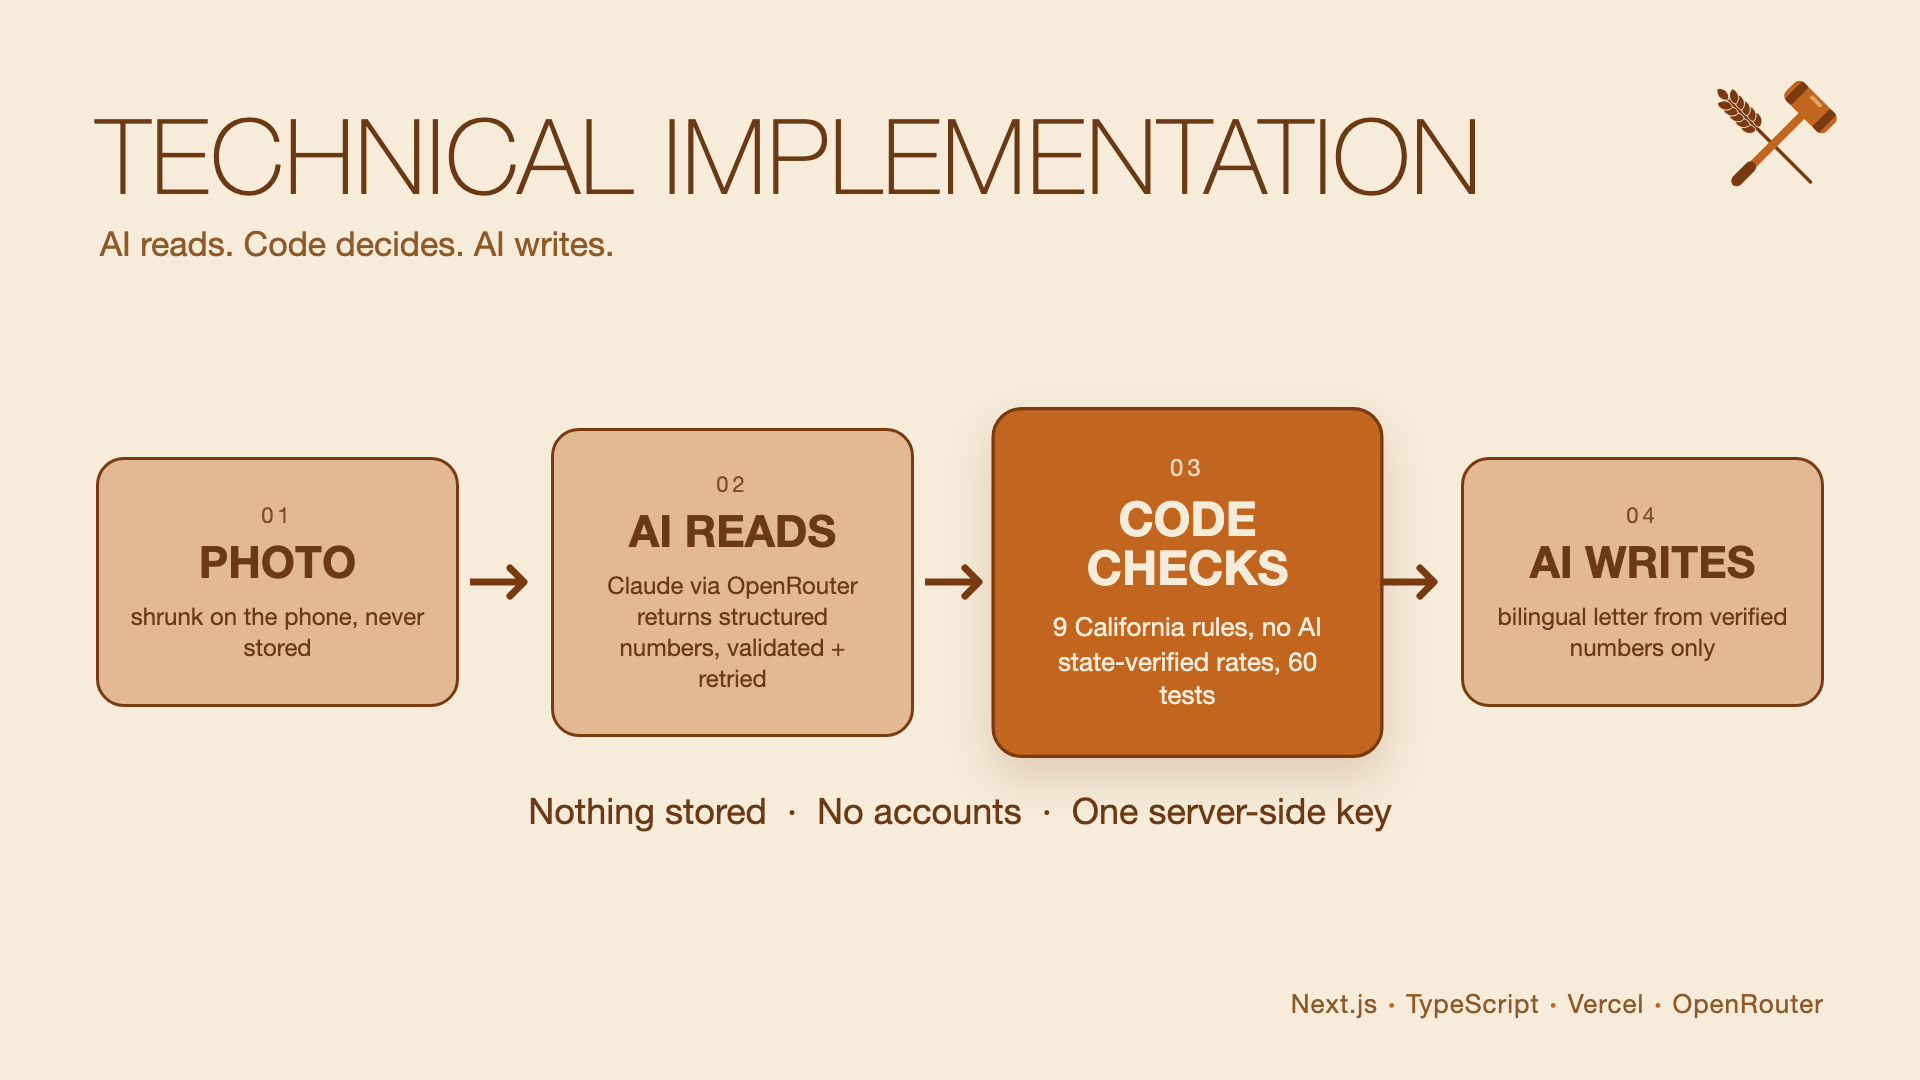
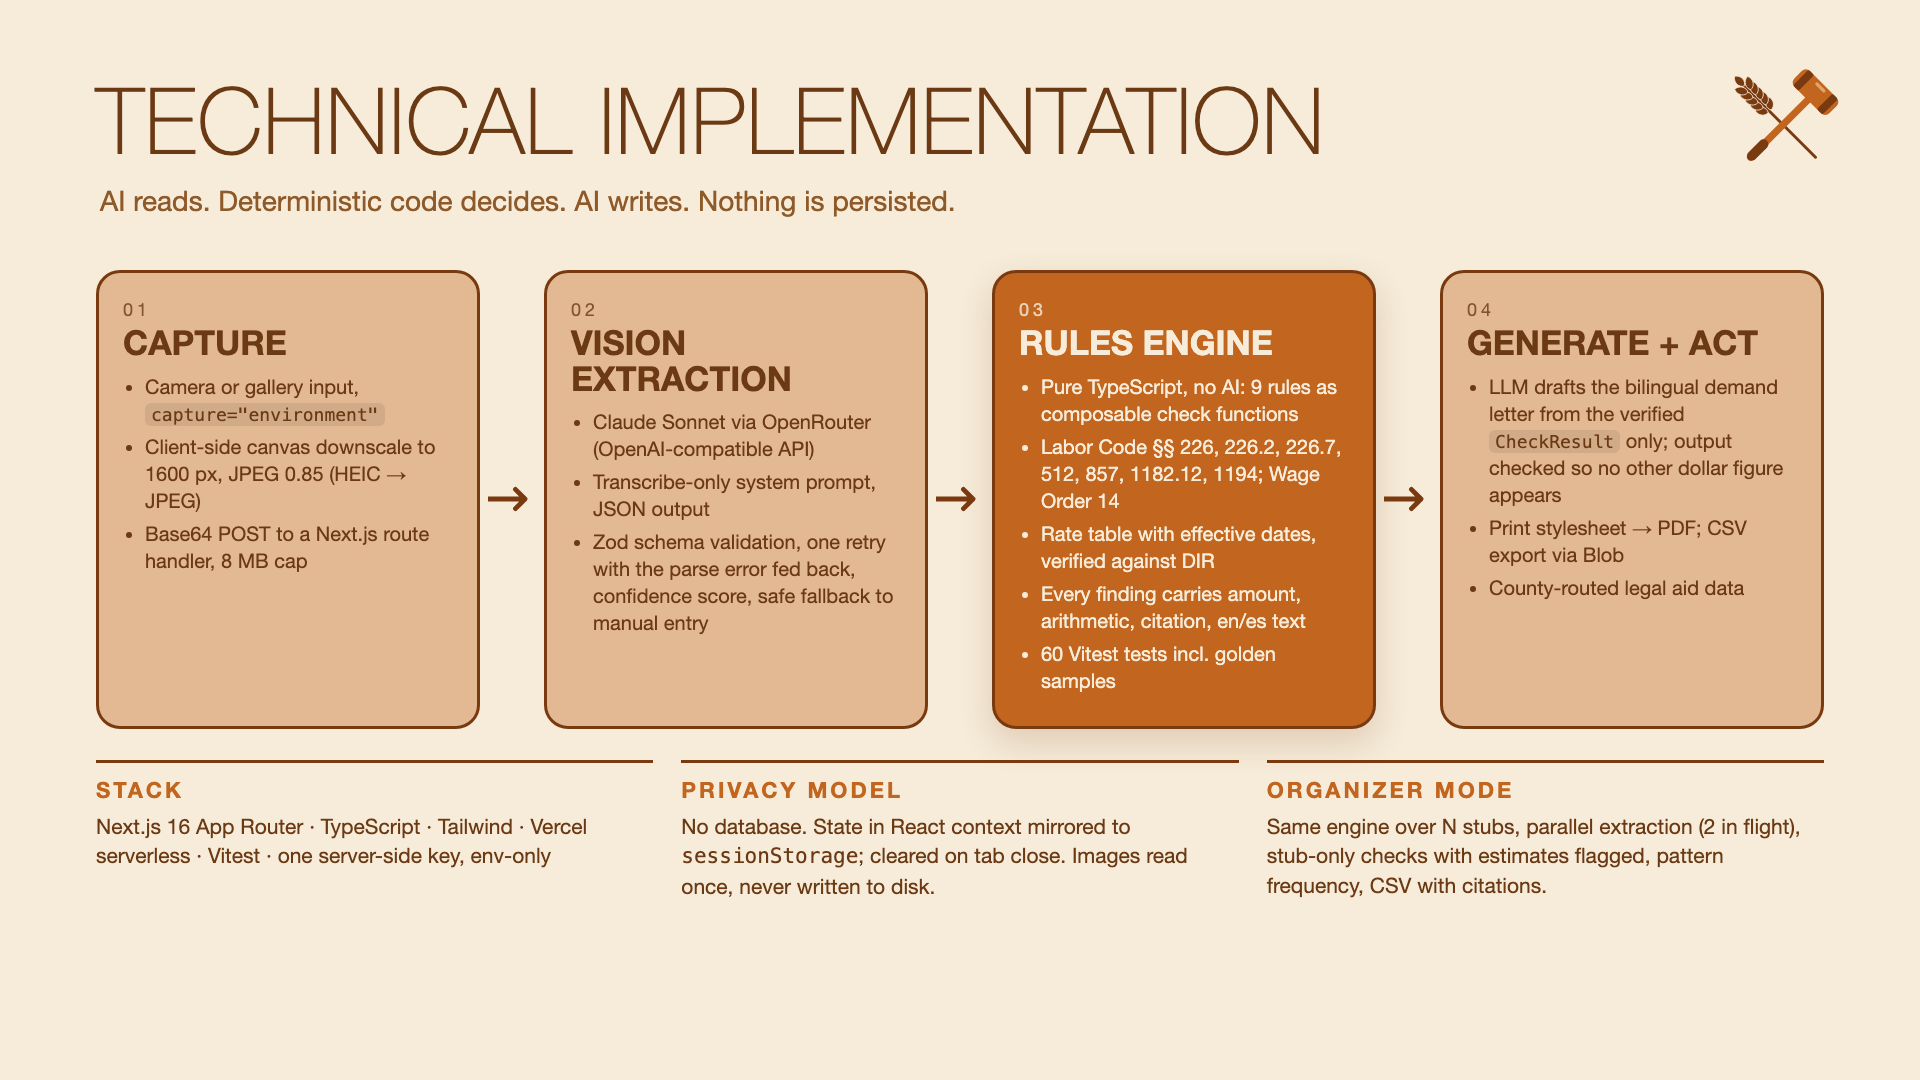
Denser technical slide

Changed region(s): [[0.0312, 0.0611, 0.9688, 0.825], [0.6562, 0.9167, 0.9375, 0.9472], [0.875, 0.0611, 0.9688, 0.1833]]

diff --git a/design/slides/slide-technical.html b/design/slides/slide-technical.html
@@ -1,19 +1,23 @@
 <!doctype html><html><head><meta charset="utf-8"><style>
 *{box-sizing:border-box} body{margin:0;width:1920px;height:1080px;background:#F6ECD9;font-family:Inter,-apple-system,"Helvetica Neue",Arial,sans-serif;color:#6B3A14;position:relative;overflow:hidden}
-.logo{position:absolute;top:56px;right:72px;width:150px;height:150px}
-h1{position:absolute;top:92px;left:96px;margin:0;font-size:104px;font-weight:300;letter-spacing:1px;text-transform:uppercase;color:#6B3A14}
-.sub{position:absolute;top:224px;left:100px;font-size:34px;color:#8F5A2A;font-weight:400}
-.row{position:absolute;top:420px;left:96px;right:96px;display:flex;align-items:center;gap:0}
-.box{flex:1;background:#E3B993;border:3px solid #7A3A10;border-radius:28px;padding:40px 30px;text-align:center;min-height:250px;display:flex;flex-direction:column;justify-content:center}
-.box.big{background:#C2651F;border-color:#7A3A10;color:#F6ECD9;transform:scale(1.08);box-shadow:0 18px 40px rgba(122,58,16,.18)}
-.box .n{font-size:22px;letter-spacing:4px;opacity:.85;margin-bottom:10px}
-.box .t{font-size:44px;font-weight:700;line-height:1.05}
-.box .d{font-size:24px;margin-top:16px;line-height:1.3}
-.arrow{width:92px;flex:none;display:flex;justify-content:center}
-.arrow svg{width:70px;height:40px}
-.line{position:absolute;top:790px;left:0;right:0;text-align:center;font-size:36px;color:#6B3A14}
-.stack{position:absolute;bottom:60px;right:96px;font-size:26px;color:#8F5A2A;letter-spacing:1px}
-.stack b{color:#C2651F;margin:0 10px}
+.logo{position:absolute;top:48px;right:72px;width:130px;height:130px}
+h1{position:absolute;top:64px;left:96px;margin:0;font-size:92px;font-weight:300;letter-spacing:1px;text-transform:uppercase}
+.sub{position:absolute;top:184px;left:100px;font-size:28px;color:#8F5A2A}
+.row{position:absolute;top:270px;left:96px;right:96px;display:flex;align-items:stretch}
+.box{flex:1;background:#E3B993;border:3px solid #7A3A10;border-radius:24px;padding:26px 24px;display:flex;flex-direction:column}
+.box.big{background:#C2651F;color:#F6ECD9;box-shadow:0 14px 34px rgba(122,58,16,.18)}
+.box .n{font-size:18px;letter-spacing:4px;opacity:.8}
+.box .t{font-size:34px;font-weight:700;line-height:1.05;margin:4px 0 12px}
+.box ul{margin:0;padding-left:22px;font-size:20px;line-height:1.35}
+.box li{margin-bottom:6px}
+.box code{font-family:"SF Mono",Menlo,Consolas,monospace;font-size:18px;background:rgba(0,0,0,.08);padding:1px 6px;border-radius:6px}
+.box.big code{background:rgba(255,255,255,.18)}
+.arrow{width:64px;flex:none;display:flex;align-items:center;justify-content:center}
+.arrow svg{width:48px;height:32px}
+.band{position:absolute;left:96px;right:96px;top:760px;display:flex;gap:28px}
+.col{flex:1;border-top:3px solid #7A3A10;padding-top:14px}
+.col h3{margin:0 0 8px;font-size:22px;letter-spacing:3px;text-transform:uppercase;color:#C2651F}
+.col p{margin:0;font-size:21px;line-height:1.4;color:#6B3A14}
 </style></head><body>
 <svg class="logo" xmlns="http://www.w3.org/2000/svg" viewBox="0 0 200 200">
 <g transform="translate(150 168) rotate(-45)" fill="#7A3A10" stroke="#7A3A10" stroke-linecap="round">
@@ -28,16 +32,33 @@ h1{position:absolute;top:92px;left:96px;margin:0;font-size:104px;font-weight:300
 <rect x="140" y="55" width="20" height="5" rx="2.5" fill="#E0A66B" transform="rotate(45 150 68)"/>
 </svg>
 <h1>Technical Implementation</h1>
-<div class="sub">AI reads. Code decides. AI writes.</div>
+<div class="sub">AI reads. Deterministic code decides. AI writes. Nothing is persisted.</div>
 <div class="row">
-  <div class="box"><div class="n">01</div><div class="t">PHOTO</div><div class="d">shrunk on the phone, never stored</div></div>
+  <div class="box"><div class="n">01</div><div class="t">CAPTURE</div><ul>
+    <li>Camera or gallery input, <code>capture="environment"</code></li>
+    <li>Client-side canvas downscale to 1600 px, JPEG 0.85 (HEIC → JPEG)</li>
+    <li>Base64 POST to a Next.js route handler, 8 MB cap</li></ul></div>
   <div class="arrow"><svg viewBox="0 0 70 40"><path d="M0 20h52M40 6l14 14-14 14" fill="none" stroke="#7A3A10" stroke-width="7" stroke-linecap="round" stroke-linejoin="round"/></svg></div>
-  <div class="box"><div class="n">02</div><div class="t">AI READS</div><div class="d">Claude via OpenRouter returns structured numbers, validated + retried</div></div>
+  <div class="box"><div class="n">02</div><div class="t">VISION EXTRACTION</div><ul>
+    <li>Claude Sonnet via OpenRouter (OpenAI-compatible API)</li>
+    <li>Transcribe-only system prompt, JSON output</li>
+    <li>Zod schema validation, one retry with the parse error fed back, confidence score, safe fallback to manual entry</li></ul></div>
   <div class="arrow"><svg viewBox="0 0 70 40"><path d="M0 20h52M40 6l14 14-14 14" fill="none" stroke="#7A3A10" stroke-width="7" stroke-linecap="round" stroke-linejoin="round"/></svg></div>
-  <div class="box big"><div class="n">03</div><div class="t">CODE CHECKS</div><div class="d">9 California rules, no AI<br>state-verified rates, 60 tests</div></div>
+  <div class="box big"><div class="n">03</div><div class="t">RULES ENGINE</div><ul>
+    <li>Pure TypeScript, no AI: 9 rules as composable check functions</li>
+    <li>Labor Code §§ 226, 226.2, 226.7, 512, 857, 1182.12, 1194; Wage Order 14</li>
+    <li>Rate table with effective dates, verified against DIR</li>
+    <li>Every finding carries amount, arithmetic, citation, en/es text</li>
+    <li>60 Vitest tests incl. golden samples</li></ul></div>
   <div class="arrow"><svg viewBox="0 0 70 40"><path d="M0 20h52M40 6l14 14-14 14" fill="none" stroke="#7A3A10" stroke-width="7" stroke-linecap="round" stroke-linejoin="round"/></svg></div>
-  <div class="box"><div class="n">04</div><div class="t">AI WRITES</div><div class="d">bilingual letter from verified numbers only</div></div>
+  <div class="box"><div class="n">04</div><div class="t">GENERATE + ACT</div><ul>
+    <li>LLM drafts the bilingual demand letter from the verified <code>CheckResult</code> only; output checked so no other dollar figure appears</li>
+    <li>Print stylesheet → PDF; CSV export via Blob</li>
+    <li>County-routed legal aid data</li></ul></div>
 </div>
-<div class="line">Nothing stored &nbsp;·&nbsp; No accounts &nbsp;·&nbsp; One server-side key</div>
-<div class="stack">Next.js<b>·</b>TypeScript<b>·</b>Vercel<b>·</b>OpenRouter</div>
+<div class="band">
+  <div class="col"><h3>Stack</h3><p>Next.js 16 App Router · TypeScript · Tailwind · Vercel serverless · Vitest · one server-side key, env-only</p></div>
+  <div class="col"><h3>Privacy model</h3><p>No database. State in React context mirrored to <code style="font-family:Menlo,monospace">sessionStorage</code>; cleared on tab close. Images read once, never written to disk.</p></div>
+  <div class="col"><h3>Organizer mode</h3><p>Same engine over N stubs, parallel extraction (2 in flight), stub-only checks with estimates flagged, pattern frequency, CSV with citations.</p></div>
+</div>
 </body></html>
